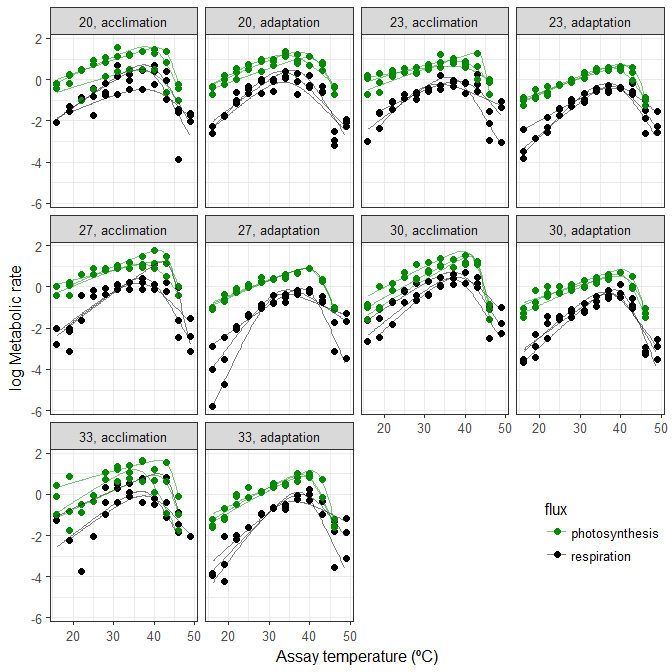
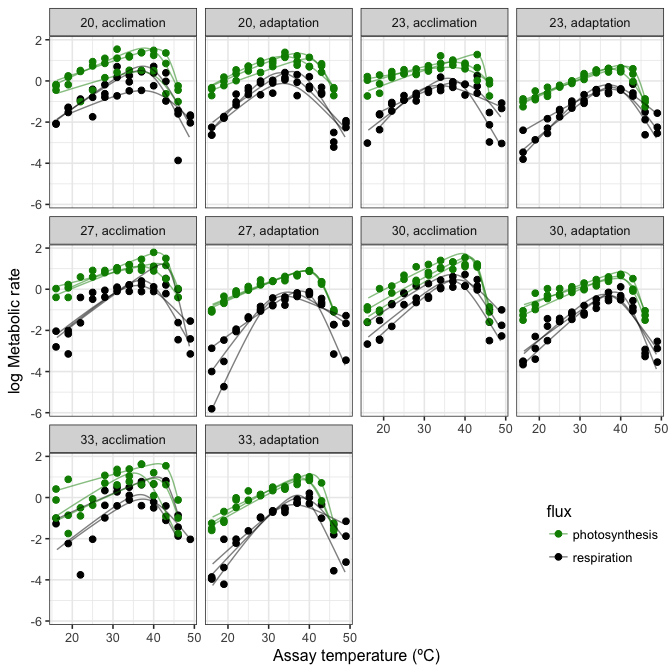
Get rid of Helvetica font from readme

diff --git a/README.md b/README.md
@@ -89,7 +89,7 @@ fit
 #>  -1.3462   0.9877   4.3326 312.1887 
 #>  residual sum-of-squares: 7.257
 #> 
-#> Number of iterations to convergence: 17 
+#> Number of iterations to convergence: 21 
 #> Achieved convergence tolerance: 1.49e-08
 ```
 
@@ -119,26 +119,26 @@ params <- bind_cols(params, CI)
 select(params, -c(statistic, p.value))
 #>   term    estimate std.error     conf.low   conf.high
 #> 1  lnc  -1.3462105 0.4656398  -2.41997789  -0.2724432
-#> 2    E   0.9877307 0.4521481  -0.05492465   2.0303860
-#> 3   Eh   4.3326453 1.4877827   0.90181230   7.7634783
-#> 4   Th 312.1887459 3.8781636 303.24568452 321.1318072
+#> 2    E   0.9877307 0.4521481  -0.05492466   2.0303860
+#> 3   Eh   4.3326453 1.4877827   0.90181228   7.7634783
+#> 4   Th 312.1887460 3.8781636 303.24568460 321.1318074
 
 # get predictions
 preds <- augment(fit)
 preds
-#>        ln.rate      K X.weights.     .fitted     .resid
-#> 1  -2.06257833 289.15          1 -1.88694036 -0.1756380
-#> 2  -1.32437939 292.15          1 -1.48002018  0.1556408
-#> 3  -0.95416807 295.15          1 -1.08143502  0.1272669
-#> 4  -0.79443675 298.15          1 -0.69121465 -0.1032221
-#> 5  -0.18203642 301.15          1 -0.31058072  0.1285443
-#> 6   0.17424007 304.15          1  0.05336434  0.1208757
-#> 7  -0.04462754 307.15          1  0.36657464 -0.4112022
-#> 8   0.48050690 310.15          1  0.49837150 -0.0178646
-#> 9   0.38794188 313.15          1  0.17973801  0.2082039
-#> 10  0.39365516 316.15          1 -0.64473313  1.0383883
-#> 11 -3.86319577 319.15          1 -1.70300699 -2.1601888
-#> 12 -1.72352435 322.15          1 -2.81272005  1.0891957
+#>        ln.rate      K X.weights.     .fitted      .resid
+#> 1  -2.06257833 289.15          1 -1.88694035 -0.17563798
+#> 2  -1.32437939 292.15          1 -1.48002017  0.15564078
+#> 3  -0.95416807 295.15          1 -1.08143502  0.12726695
+#> 4  -0.79443675 298.15          1 -0.69121466 -0.10322209
+#> 5  -0.18203642 301.15          1 -0.31058074  0.12854431
+#> 6   0.17424007 304.15          1  0.05336432  0.12087575
+#> 7  -0.04462754 307.15          1  0.36657462 -0.41120215
+#> 8   0.48050690 310.15          1  0.49837148 -0.01786459
+#> 9   0.38794188 313.15          1  0.17973802  0.20820387
+#> 10  0.39365516 316.15          1 -0.64473311  1.03838827
+#> 11 -3.86319577 319.15          1 -1.70300696 -2.16018881
+#> 12 -1.72352435 322.15          1 -2.81272003  1.08919567
 ```
 
 #### 4. Plot fit
@@ -183,16 +183,16 @@ select(fits, curve_id, data, fit)
 #> # A tibble: 60 x 3
 #>    curve_id data              fit      
 #>       <dbl> <list>            <list>   
-#>  1     1.00 <tibble [12 x 3]> <S3: nls>
-#>  2     2.00 <tibble [12 x 3]> <S3: nls>
-#>  3     3.00 <tibble [12 x 3]> <S3: nls>
-#>  4     4.00 <tibble [9 x 3]>  <S3: nls>
-#>  5     5.00 <tibble [12 x 3]> <S3: nls>
-#>  6     6.00 <tibble [12 x 3]> <S3: nls>
-#>  7     7.00 <tibble [12 x 3]> <S3: nls>
-#>  8     8.00 <tibble [10 x 3]> <S3: nls>
-#>  9     9.00 <tibble [8 x 3]>  <S3: nls>
-#> 10    10.0  <tibble [10 x 3]> <S3: nls>
+#>  1     1.00 <tibble [12 × 3]> <S3: nls>
+#>  2     2.00 <tibble [12 × 3]> <S3: nls>
+#>  3     3.00 <tibble [12 × 3]> <S3: nls>
+#>  4     4.00 <tibble [9 × 3]>  <S3: nls>
+#>  5     5.00 <tibble [12 × 3]> <S3: nls>
+#>  6     6.00 <tibble [12 × 3]> <S3: nls>
+#>  7     7.00 <tibble [12 × 3]> <S3: nls>
+#>  8     8.00 <tibble [10 × 3]> <S3: nls>
+#>  9     9.00 <tibble [8 × 3]>  <S3: nls>
+#> 10    10.0  <tibble [10 × 3]> <S3: nls>
 #> # ... with 50 more rows
 
 # look at a single fit
@@ -211,7 +211,7 @@ summary(fits$fit[[1]])
 #> 
 #> Residual standard error: 0.9524 on 8 degrees of freedom
 #> 
-#> Number of iterations to convergence: 38 
+#> Number of iterations to convergence: 17 
 #> Achieved convergence tolerance: 1.49e-08
 ```
 
@@ -300,35 +300,10 @@ ggplot() +
   geom_line(aes(K - 273.15, ln.rate, col = flux, group = curve_id), alpha = 0.5, preds2) +
   facet_wrap(~ growth.temp + process, labeller = labeller(.multi_line = FALSE)) +
   scale_colour_manual(values = c('green4', 'black')) +
-  theme_bw(base_size = 12, base_family = 'Helvetica') +
+  theme_bw(base_size = 12) +
   ylab('log Metabolic rate') +
   xlab('Assay temperature (ºC)') +
   theme(legend.position = c(0.9, 0.15))
-#> Warning in grid.Call(C_textBounds, as.graphicsAnnot(x$label), x$x, x$y, :
-#> font family not found in Windows font database
-
-#> Warning in grid.Call(C_textBounds, as.graphicsAnnot(x$label), x$x, x$y, :
-#> font family not found in Windows font database
-
-#> Warning in grid.Call(C_textBounds, as.graphicsAnnot(x$label), x$x, x$y, :
-#> font family not found in Windows font database
-
-#> Warning in grid.Call(C_textBounds, as.graphicsAnnot(x$label), x$x, x$y, :
-#> font family not found in Windows font database
-
-#> Warning in grid.Call(C_textBounds, as.graphicsAnnot(x$label), x$x, x$y, :
-#> font family not found in Windows font database
-
-#> Warning in grid.Call(C_textBounds, as.graphicsAnnot(x$label), x$x, x$y, :
-#> font family not found in Windows font database
-#> Warning in grid.Call.graphics(C_text, as.graphicsAnnot(x$label), x$x, x
-#> $y, : font family not found in Windows font database
-
-#> Warning in grid.Call.graphics(C_text, as.graphicsAnnot(x$label), x$x, x
-#> $y, : font family not found in Windows font database
-
-#> Warning in grid.Call.graphics(C_text, as.graphicsAnnot(x$label), x$x, x
-#> $y, : font family not found in Windows font database
 ```
 
 ![](README-plot_many_fits-1.png)
@@ -345,35 +320,10 @@ ggplot(params, aes(col = flux)) +
   geom_linerange(aes(curve_id, ymin = conf.low, ymax = conf.high)) +
   coord_flip() +
   scale_color_manual(values = c('green4', 'black')) +
-  theme_bw(base_size = 12, base_family = 'Helvetica') +
+  theme_bw(base_size = 12) +
   theme(legend.position = 'top') +
   xlab('curve') +
   ylab('parameter estimate')
-#> Warning in grid.Call(C_textBounds, as.graphicsAnnot(x$label), x$x, x$y, :
-#> font family not found in Windows font database
-
-#> Warning in grid.Call(C_textBounds, as.graphicsAnnot(x$label), x$x, x$y, :
-#> font family not found in Windows font database
-
-#> Warning in grid.Call(C_textBounds, as.graphicsAnnot(x$label), x$x, x$y, :
-#> font family not found in Windows font database
-
-#> Warning in grid.Call(C_textBounds, as.graphicsAnnot(x$label), x$x, x$y, :
-#> font family not found in Windows font database
-
-#> Warning in grid.Call(C_textBounds, as.graphicsAnnot(x$label), x$x, x$y, :
-#> font family not found in Windows font database
-
-#> Warning in grid.Call(C_textBounds, as.graphicsAnnot(x$label), x$x, x$y, :
-#> font family not found in Windows font database
-#> Warning in grid.Call.graphics(C_text, as.graphicsAnnot(x$label), x$x, x
-#> $y, : font family not found in Windows font database
-
-#> Warning in grid.Call.graphics(C_text, as.graphicsAnnot(x$label), x$x, x
-#> $y, : font family not found in Windows font database
-
-#> Warning in grid.Call.graphics(C_text, as.graphicsAnnot(x$label), x$x, x
-#> $y, : font family not found in Windows font database
 ```
 
 ![](README-confint_plot-1.png)
